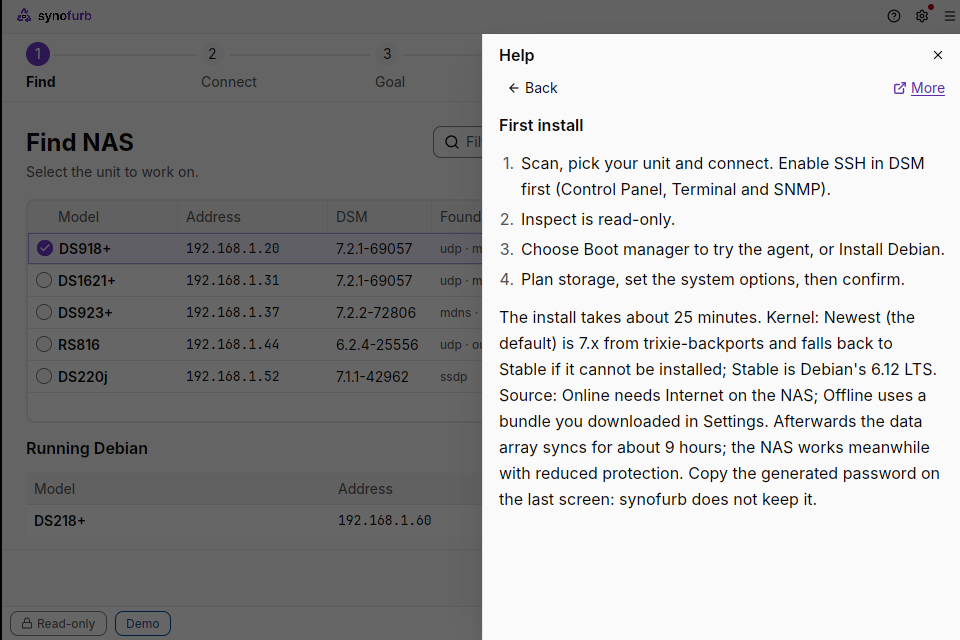
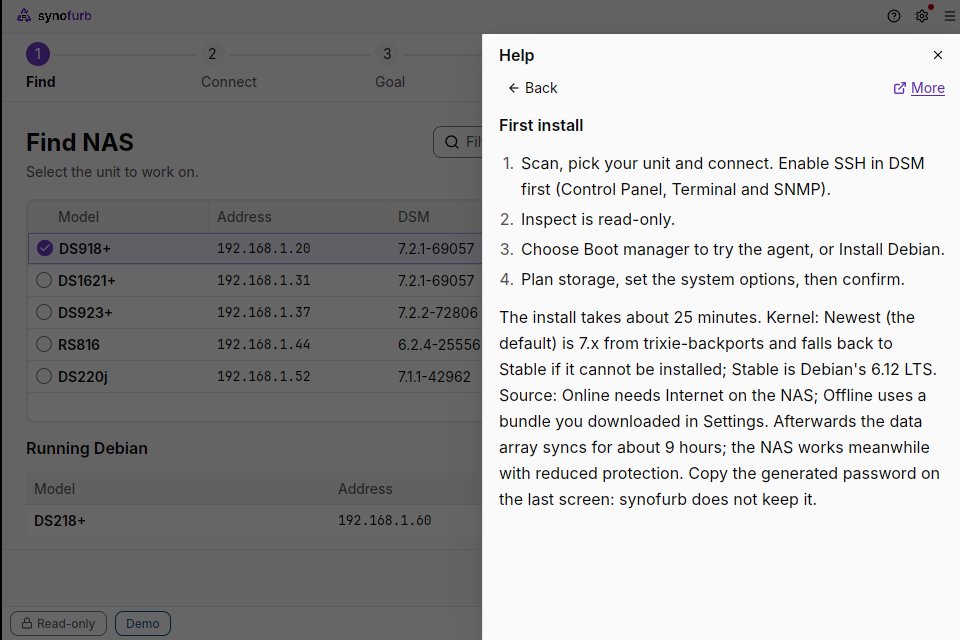
GUI fix round 3: evidence screenshots (about 105), register DEV-UI-12/19/20/21, post-approval changes section in APPROVED.md (owner sign-off pending), docs
Claude-Session: https://claude.ai/code/session_01KG7vnip8q8iZtfbUyzbgBH

diff --git a/design/v2/DESIGN-SYSTEM-V2.md b/design/v2/DESIGN-SYSTEM-V2.md
@@ -420,13 +420,15 @@ Help centre: a Sheet (480 px) with a search `Input` at the top, a list of short 
 | DEV-UI-9 | **Desktop implementation of DEV-UI-8**: no global `enter` key binding. | A bound `enter` action swallows Enter on every focused `Button` (verified with injected keys: the Command button stopped opening). | The root runs the primary action on Enter only when the root itself is focused; Erase sits in a `capture_key_down` wrapper that stops Enter. Verified under Xvfb with XTest: Enter on Erase does nothing, Space starts the install. Unit-tested part: the phrase and checkbox gate (`state::ConfirmGate`, `facts::confirm_phrase_for`). |
 | DEV-UI-10 | **Desktop segmented choices are `ToggleGroup`s, not `RadioGroup`s** (theme, text size, accent, sign-in method, Setup choices, log levels). | A vertical `RadioGroup` is heavy for 2 to 5 short options; the mockup shows segmented controls. | `kit::segmented` draws the outline variant: a 1 px `border_strong` container, the selected segment filled with the accent (white label, 700 weight; at least 3:1 against its neighbours and told apart without colour by the weight). Roving focus of `ToggleGroup` is not verified with a screen reader. |
 | DEV-UI-11 | **Static text where the mockup animates**: the failure clocks ("DSM returns in 1 min", "DSM loader in 15 min", "DSM may return in 20 min or more") are rules, not live counters; Wait for DSM shows the elapsed time it has waited. | No timer-driven repaint is wired for a countdown, and the engine reports phases, not seconds. | The numbers come from `synofurb_core::timing` and `script::failure_handling(&Plan)` (a unit test ties the copy to the constants), so they exist only where they are true: units that halt say "Will not reboot itself". The agent estimate carries a popover that says it is an estimate. A live clock needs a repaint timer. |
-| DEV-UI-12 | **Recovery actions run the engine, with the engine's own outcomes**: Boot DSM (Set default, or Set and reboot as an explicit second choice), Open agent (a reboot, behind a dialog), Restore flash and Remove entries (typed phrases RESTORE FLASH and REMOVE ENTRIES) call `synofurb_core::recovery`. The result is success only when the engine read the unit back; "not confirmed" is a warning, a typed `AgentTimeout` is a warning with the engine's text, everything else an error. A unit that runs the boot agent is reached with its key and no host-key check (KeyAuthOnly). Each row also has Show command (the CLI equivalent) as a secondary. | The first version only showed commands because the engine had no entry points. | Reading the unit's boot state on opening Recovery replaces this session's memory (the subtitle says which one is shown). Restore writes through the unit (`synofurb-dom` there); writing the flash from another computer is the Manual recovery dialog. Never run against a real unit. |
+| DEV-UI-12 | **Recovery actions run the engine, with the engine's own outcomes**: Boot DSM (Set default, or Set and reboot as an explicit second choice), Open agent (a reboot, behind a dialog), Restore flash and Remove entries (typed phrases RESTORE FLASH and REMOVE ENTRIES) call `synofurb_core::recovery`. The result is success only when the engine read the unit back; "not confirmed" is a warning, a typed `AgentTimeout` is a warning with the engine's text, everything else an error. A unit that runs the boot agent is reached with its key and no host-key check (KeyAuthOnly). Restore flash lists only the unit's own saved images (`recovery::backups_for_unit`, same serial; an unknown serial matches nothing), shows the file and the unit, asks for `RESTORE FLASH <model> <last four of the serial>`, and the engine refuses another unit's image again. Open agent warns when the unit runs Debian (the agent makes DSM the default) and is off when the agent is already running. Each row also has Show command (the CLI equivalent) as a secondary. | The first version only showed commands because the engine had no entry points. | Reading the unit's boot state on opening Recovery replaces this session's memory (the subtitle says which one is shown). Restore writes through the unit (`synofurb-dom` there); writing the flash from another computer is the Manual recovery dialog. Never run against a real unit. |
 | DEV-UI-13 | **Manage update**: a real run calls the engine's `push_update` / `push_rollback` on a worker thread and shows the engine's own one-sentence report; the unit's version comes from the health report and the app's from the bundled management plane. In `--demo` the update is a scripted 3.5 s animation with constants (labelled Demo). The desktop Storage tab is read-only (health, arrays, Hybrid layout, Open web UI). | RAID changes belong to the web UI by decision (no RAID mutations on the desktop). | `mgmt::update_gate` decides the gate (blocked when degraded and unconfirmed, allowed with a warning at Critical) and is unit-tested. Unverified against a real unit. |
 | DEV-UI-14 | **Not built**: an OS keychain for saved passwords. | Out of scope for this pass; core has no keychain API. | Nothing in the UI pretends to save passwords. |
 | DEV-UI-15 | **DEV-UI-5's rem container queries are not ported**: at Largest text on 960 x 640 Confirm keeps two columns and scrolls; the hidden unit header and the summary-before-gate reorder at 52 rem are not implemented. | Time; needs width-in-rem layout switches in every screen. | The gate stays reachable by scrolling and Erase stays pinned. Seen in `v2-app-confirm-light-largest.png`. Follow-up. |
 | DEV-UI-16 | **Scrollbars are `Always` visible on every scroller** (the design system says `Always` only for the log and tables). | One theme-wide setting is simpler than per-scroller modes. | Thumb, inset and colours match the design system. |
 | DEV-UI-17 | **Install uses a custom 12-segment strip** (done / running / pending, "No return" flag over segment 3) instead of the `Progress` widget, plus a large percentage and one numbering scheme (the engine's 12 steps; before step 1 the line names the phase). | The widget has no segments or flag (DEV-UI-6, point-of-no-return strip). | Each segment is a coloured block with the step in the Steps list below; status is also text ("Step 5 of 12 · name"). |
 | DEV-UI-18 | **No rescue panel on the Failed page** (the approved mockup had Open rescue shell, ssh command, one-time password and rescue notes). | The engine has no rescue shell and no SSH server in the installer (docs/RECOVERY.md); the claim was removed from the engine, so the panel would promise something that does not exist. | The page shows what is true instead: the disks and flash tags, whether the unit reboots by itself (`script::failure_handling`: 60 s before and 15 min after the point of no return on boot-flash units, otherwise "Will not reboot itself"), the log open by default, Copy log, Export diagnostics and Recovery options. A rescue shell needs an installer feature first. |
-| DEV-UI-19 | **Host-key trust** is a dialog fed by a channel: the engine's trust-on-first-use callback runs on a worker thread, the UI shows "Trust this NAS?" (fingerprint on three lines with Copy) and the worker waits up to 3 minutes; Cancel, Escape, a closed window and a timeout all refuse. A changed key opens a danger dialog with both fingerprints and Cancel only. | The engine decides and stores the pin (`known_hosts.json`); the UI only answers. | Tested without a window (`ui::trust`): answers, refusals, timeout, dropped question and the pin written only after a yes. |
+| DEV-UI-19 | **Host-key trust** is a dialog fed by a channel: the engine's trust-on-first-use callback runs on a worker thread, the UI shows "Trust this NAS?" (fingerprint on three lines with Copy) with the remaining answer time (the engine's `timing::HOST_KEY_ANSWER_TIMEOUT_SECS`, 180 s; the connect clock does not run while the person decides), and the worker waits. Cancel, Escape, a closed window and a timeout refuse. When the attempt has ended (answer window over, or the connection failed) the dialog says "Connection ended", Trust is disabled with that reason and a late Trust is not delivered. A changed key opens a danger dialog with both fingerprints and Cancel only. | The engine decides and stores the pin (`known_hosts.json`); the UI only answers. | Tested without a window (`ui::trust`): answers, refusals, timeout, dropped question, late answer, countdown, the pin written only after a yes. The countdown repaints once a second. |
+| DEV-UI-20 | **Manage has a sign-in state** ("Sign in to read health": user and password or key of the unit on screen). The mockup assumed a connected unit. | A converted unit is not the DSM unit the Connect form holds; the page must never act on another NAS or show a healthy unit as unreachable. | `mgmt::manage_target_for` takes only the managed unit's address and the typed credential; `ManageBinding` forgets the sign-in when another unit is opened; Recovery opened from Manage uses the same target (tests). No keychain: the credential lives in memory for the session. |
+| DEV-UI-21 | **Find table columns are shares of the table width** (not rem or fixed widths) and "Found by" is truncated with an ellipsis at large text. | The widget scrolls horizontally when fixed columns exceed the table; shares never do (`column_widths`, tested). | `gui-walk.sh` renders every screen at Largest and fails on content in the page gutter or a horizontal scrollbar. |
 
 **Timing numbers shown by the mockup, and where they come from** (`crates/synofurb-core/src/session.rs`; nothing here is invented): the install flow arms the boot agent with `timeout_min: 30` (about line 330); the app waits `Duration::from_secs(10 * 60)` = 10 minutes for the agent to appear (about line 362; `domboot.rs:318` says "usually 1-3 minutes"); the Boot manager arms it with `timeout_min: 60` (about line 422). The failed-agent clock therefore reads "DSM may return in about 20 min or more": the watchdog counts from when the agent booted (1 to 3 minutes after the reboot command), so 20 plus that many minutes remain when the app gives up, an estimate and not a promise. The engine resets nothing after the wait and cannot tell "the agent ran but is unreachable" (DSM is the default, the watchdog reboots to DSM) from "the agent never ran" (the default is still the agent, no watchdog): the screen shows "Default: not confirmed", the status-bar Tag "Boot unconfirmed" and names the manual recovery (`boot/dom/README.md`, "Fail-safe design" and "Manual recovery"). Before step 3 an installer failure reboots after 60 s and after step 3 the rescue shell closes after 15 minutes (`docs/RECOVERY.md`). `docs/RECOVERY.md` line 22 ("if nobody claims it in N minutes") and `docs/BOOT.md` line 58 ("within the timeout") should state these numbers.

diff --git a/docs/GUI.md b/docs/GUI.md
@@ -4,7 +4,7 @@ The desktop UI follows the owner-approved v2 mockup (`design/mockups-v2/desktop`
 `design/BRIEF-v2.md`). It uses stock `gpui-component` widgets through GPUI Kit 0.8.1, bundled Inter and JetBrains Mono,
 Lucide icons only, themed scrollbars, and at most 60 words of static prose per screen (enforced by tests in `copy.rs`).
 The widget map and the defects of the first UI are in `docs/GUI-COMPONENTS.md`; deviations from the mockup are in
-`design/v2/DESIGN-SYSTEM-V2.md` section 13 (DEV-UI-1 to DEV-UI-19).
+`design/v2/DESIGN-SYSTEM-V2.md` section 13 (DEV-UI-1 to DEV-UI-21).
 
 `synofurb` (no arguments) and `synofurb gui` open the wizard. All decisions (scan, inspect, plan, install, recovery,
 update, compatibility) stay in `synofurb-core`; the UI shows state and forwards clicks.
@@ -136,16 +136,31 @@ dialogs and never cancels an install. Text size (Default, Large, Largest) scales
 
 ## What was and was not verified
 
-Verified (Linux, headless): per-file rustfmt, `cargo clippy -p synofurb --all-targets -- -D warnings`, `cargo test -p
-synofurb` (copy budgets, tokens vs JSON, accent contrast, risk Tag, Way back, recovery rows, Quick setup defaults,
-phrase gate, command-vs-plan, management health and update gate, RAID helpers); every demo screen renders under Xvfb with
-software Vulkan; Enter/Space behaviour of Erase and the Command button checked with injected XTest keys; screenshots in
-light at 960 x 640 for every screen family (`design/screenshots/v2-app-<screen>-light.png`, 20 states), dark for 14 of them, 1180 x 760 for Confirm, Plan, Inventory and Install, and Largest text for Confirm, Plan, Inventory and the agent-did-not-answer page. Not captured: dark and larger text for every family, most dialogs (only Quick setup with mixed disks and Manual recovery), hover, pressed and focus states.
+Verified (Linux, headless): per-file rustfmt, `cargo clippy --workspace --all-targets -- -D warnings`, `cargo test --workspace` (copy budgets and
+the tie between the copy and `synofurb_core::timing`, tokens vs JSON, accent contrast, risk Tag, Way back, recovery rows, Quick setup
+defaults and its "Use these" state, phrase gates, command-vs-plan, Manage binding to one unit, per-unit saved images, host-key bridge,
+Find column widths, management health and update gate, RAID helpers). Every demo screen renders under Xvfb with software Vulkan;
+`crates/synofurb/assets/tools/gui-walk.sh` renders them all at a text size and fails when content reaches the page gutter or a
+horizontal scrollbar appears (run at Largest on all 51 screens: clean; the Help sheet is excluded from the gutter test because it
+is a panel over the page). Enter/Space behaviour of Erase and the Command button were checked with injected XTest keys.
 
-Not verified: Windows and macOS, real hardware, real SSH scan/inspect/install, the update download path, screen readers,
-IME and password managers, Largest text on every screen, Popover focus return, Select placement, RadioGroup/ToggleGroup
-roving focus, high-contrast OS modes. UI integration tests with `gpui_kit::test` were not added (the `test-support`
-feature rebuilds the GPUI graph and does not fit the disk here); the gate logic is covered by unit tests.
+Screenshots: `design/screenshots/v2-app-*.png` (about 105): light 960 x 640 for every family, dark for 20, Largest text for 18 (dark
+once), 1180 x 760 for 7, plus the log viewer, the Copy command, Cancel install, Report, Add by IP, host-key and changed-key dialogs,
+Quick setup with mixed disks, Manual recovery (light and dark), Confirm with Erase enabled, in Keep mode and for a twin unit, Find
+empty and scanning, Manage sign-in, a keyboard focus ring, hover and pressed states of the primary button, and the Popover opened by a
+disabled-reason info button. Not captured: hover and pressed for every control class, dark for every family, Largest for dialogs.
+
+**Window controls and the black strip in captures.** With no window manager (Xvfb) GPUI falls back to server-side decorations on X11
+and `TitleBar` then draws no minimise, maximise or close buttons (the window manager is expected to); a window manager supplies them.
+The window also sits 2 px right of its requested origin without one, so the 2 px black strip down the left edge of every capture is
+the X root window, not part of the app (a capture with a larger root shows it outside the window; nothing is drawn at x = 0 and 1
+inside the app). Captures with real window controls need a desktop session; they cannot be produced headless here (a fake
+compositing-manager selection did not make GPUI switch to client decorations).
+
+Not verified: Windows and macOS, real hardware (scan, SSH, recovery actions, Manage update, host-key trust against a real unit), the
+update download path, screen readers, IME and password managers, Popover focus return, Select placement, RadioGroup/ToggleGroup roving
+focus, high-contrast OS modes. UI integration tests with `gpui_kit::test` were not added (the `test-support` feature rebuilds the GPUI
+graph and does not fit the disk here); the logic is covered by unit tests.
 
 ## Decisions for the owner
 

diff --git a/design/mockups-v2/APPROVED.md b/design/mockups-v2/APPROVED.md
@@ -22,3 +22,19 @@ phrase suffix, explicit Hybrid vs RAID 6 choice in Quick setup, the agent-did-no
 Known limits carried into implementation (mockup README, "Known limits to test in GPUI"): nothing was rendered by gpui-component;
 24 px info and copy icon buttons; "Recommended" on Boot manager untested; Confirm needs a scroll at Largest text on 960x640;
 Enter-on-Erase handling, Select placement, RadioGroup roving focus, Popover focus return and px widgets at Largest text are unverified.
+
+## Changes after approval (owner sign-off pending)
+
+**These changes were made by the implementation after the approval above. The owner has not signed off on them; this section records
+them so the approved mockup is not mistaken for the product. Nothing here is an approval.** The file hashes above refer to the
+approved versions; `design/v2/DESIGN-SYSTEM-V2.md` section 13 has been extended since (DEV-UI-9 to DEV-UI-20) and `design/v2/UX-SPEC.md`
+F3 was corrected.
+
+| What changed | Why | Where |
+|---|---|---|
+| **No rescue panel on the Failed page** (DEV-UI-18). The approved mockup showed "Open rescue shell", an SSH command, a one-time password and rescue notes after the point of no return. The product has none: the installer has no rescue shell and no SSH server, so the page shows the log, Copy log, Export diagnostics, Recovery options and whether the unit reboots by itself (boot-flash units: 60 s before and 15 min after the point of no return; all others halt and wait for a power cycle). | The engine has no rescue shell (`docs/RECOVERY.md`); promising one would be false. | `crates/synofurb/src/ui/screens/failed.rs`, `facts.rs` (`fail_clock`), `copy.rs` (`DLG_NEXT_*`) |
+| **Kernel default is Newest** (the mockup's Quick setup and System said Stable by default; "Stable" stays one click away). | Product requirement: kernel 7+ preferred; the engine, README and CLI default are Newest. | `app.rs`, `overlays.rs` (Quick setup), `cli_cmd.rs`, UX-SPEC F3 |
+| Recovery actions run the engine (Boot DSM with an explicit reboot choice, Open agent, Restore flash with a unit-specific typed phrase, Remove entries); Restore uses only the unit's own saved image. | The mockup showed buttons; the engine now has the functions. | `screens/recover.rs`, `facts.rs`, `worker.rs` |
+| Manage has its own sign-in and is bound to the unit on screen ("Sign in to read health"); Health, Update and Roll back never use the Connect form. | A release blocker found in review (wrong-unit actions). | `screens/manage.rs`, `mgmt.rs` |
+| First-contact SSH host-key dialog shows the remaining answer time and says "Connection ended" when the attempt is over. | The engine's answer window is 180 s. | `overlays.rs`, `trust.rs` |
+| Find columns share the table width instead of fixed widths; "Found by" ends in an ellipsis at large text. | No horizontal scrolling at Largest text. | `screens/inventory.rs` |
